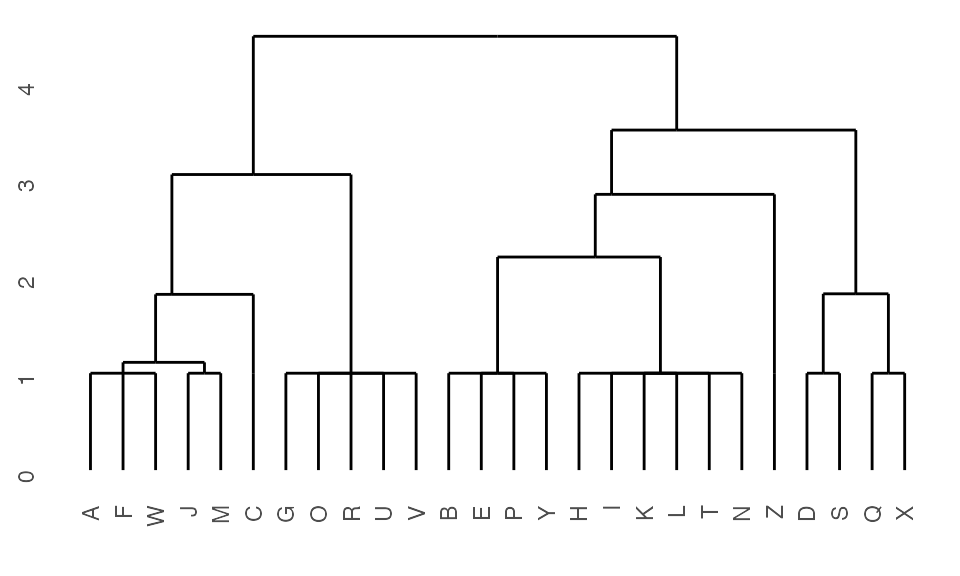
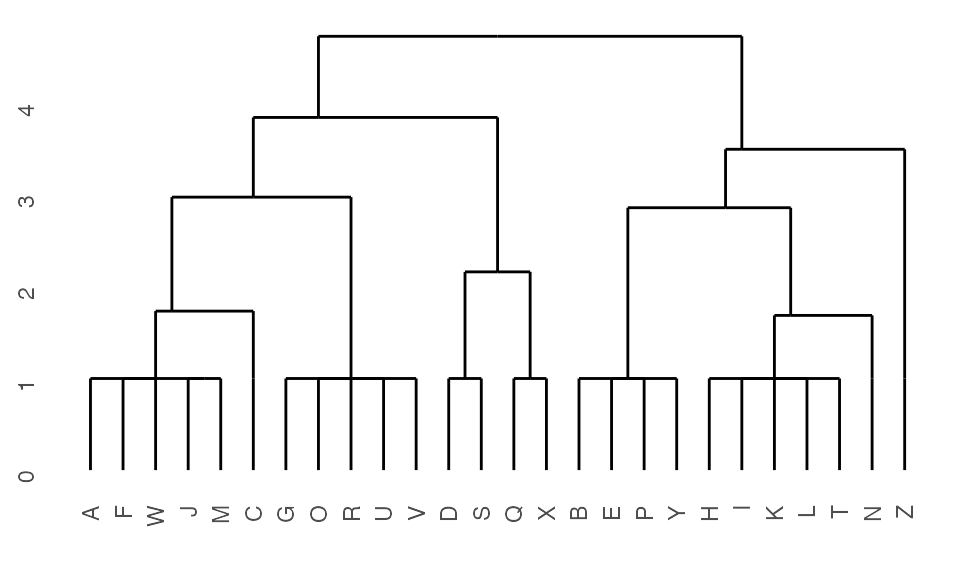
Troubleshooting gh-pages

diff --git a/docs/articles/RunningK2Taxonomer.html b/docs/articles/RunningK2Taxonomer.html
@@ -229,10 +229,10 @@
 <code class="sourceCode R"><span class="co">## Get observations defined in each partition</span>
 <span class="fu"><a href="../reference/K2results.html">K2results</a></span><span class="op">(</span><span class="va">K2res</span><span class="op">)</span><span class="op">$</span><span class="va">A</span><span class="op">$</span><span class="va">obs</span>
 <span class="co">#&gt; [[1]]</span>
-<span class="co">#&gt;  [1] "A" "C" "F" "G" "J" "M" "O" "R" "U" "V" "W"</span>
+<span class="co">#&gt;  [1] "A" "C" "D" "F" "G" "J" "M" "O" "Q" "R" "S" "U" "V" "W" "X"</span>
 <span class="co">#&gt; </span>
 <span class="co">#&gt; [[2]]</span>
-<span class="co">#&gt;  [1] "B" "D" "E" "H" "I" "K" "L" "N" "P" "Q" "S" "T" "X" "Y" "Z"</span></code></pre></div>
+<span class="co">#&gt;  [1] "B" "E" "H" "I" "K" "L" "N" "P" "T" "Y" "Z"</span></code></pre></div>
 </div>
 <div id="stability-metrics" class="section level3">
 <h3 class="hasAnchor">
@@ -241,15 +241,15 @@
 <div class="sourceCode" id="cb10"><pre class="downlit sourceCode r">
 <code class="sourceCode R"><span class="co">## Get bootstrap probability of this partition</span>
 <span class="fu"><a href="../reference/K2results.html">K2results</a></span><span class="op">(</span><span class="va">K2res</span><span class="op">)</span><span class="op">$</span><span class="va">A</span><span class="op">$</span><span class="va">bootP</span>
-<span class="co">#&gt; [1] 0.044</span>
+<span class="co">#&gt; [1] 0.038</span>
 
 <span class="co">## Node stability (Value between 0 and 1. 1 indicating high stability)</span>
 <span class="fu"><a href="../reference/K2results.html">K2results</a></span><span class="op">(</span><span class="va">K2res</span><span class="op">)</span><span class="op">$</span><span class="va">A</span><span class="op">$</span><span class="va">stability</span><span class="op">$</span><span class="va">node</span>
-<span class="co">#&gt; [1] 0.6951385</span>
+<span class="co">#&gt; [1] 0.6965192</span>
 
 <span class="co">## Stability of each subseqent subgroup.</span>
 <span class="fu"><a href="../reference/K2results.html">K2results</a></span><span class="op">(</span><span class="va">K2res</span><span class="op">)</span><span class="op">$</span><span class="va">A</span><span class="op">$</span><span class="va">stability</span><span class="op">$</span><span class="va">clusters</span>
-<span class="co">#&gt; [1] 0.6450297 0.6696616</span>
+<span class="co">#&gt; [1] 0.6453327 0.7098154</span>
 
 <span class="co">## Distance matrix indicating pairwise cosine similarity of each observation</span>
 <span class="va">partitionAstability</span> <span class="op">&lt;-</span> <span class="fu"><a href="https://rdrr.io/r/base/matrix.html">as.matrix</a></span><span class="op">(</span><span class="fu"><a href="../reference/K2results.html">K2results</a></span><span class="op">(</span><span class="va">K2res</span><span class="op">)</span><span class="op">$</span><span class="va">A</span><span class="op">$</span><span class="va">stability</span><span class="op">$</span><span class="va">samples</span><span class="op">)</span>
@@ -298,31 +298,38 @@
 
 <span class="co">## Get differential results for one partition</span>
 <span class="fu"><a href="https://rdrr.io/r/utils/head.html">head</a></span><span class="op">(</span><span class="fu"><a href="../reference/K2results.html">K2results</a></span><span class="op">(</span><span class="va">K2res</span><span class="op">)</span><span class="op">$</span><span class="va">A</span><span class="op">$</span><span class="va">dge</span><span class="op">)</span>
-<span class="co">#&gt;       gene     coef     mean        t         pval          fdr         B edge</span>
-<span class="co">#&gt; 1 31583_at 1519.998 2819.348 8.373340 1.046179e-08 2.353902e-05 -2.345377    2</span>
-<span class="co">#&gt; 2 31546_at 1242.405 1963.026 8.138876 1.768093e-08 2.652140e-05 -2.384707    2</span>
-<span class="co">#&gt; 3 31573_at 1229.790 2034.806 7.396055 9.781121e-08 1.100376e-04 -2.523671    2</span>
-<span class="co">#&gt; 4 31511_at 1300.542 3256.336 7.292037 1.250010e-07 1.125009e-04 -2.545017    2</span>
-<span class="co">#&gt; 5 31568_at 1422.450 2866.918 7.147891 1.760053e-07 1.320040e-04 -2.575418    2</span>
-<span class="co">#&gt; 6 31527_at 1527.006 3428.919 6.128346 2.126786e-06 9.133830e-04 -2.819940    2</span>
+<span class="co">#&gt;                        gene       coef       mean        t         pval</span>
+<span class="co">#&gt; 1                  31492_at  282.13664  307.98895 6.955755 2.796513e-07</span>
+<span class="co">#&gt; 2                  31461_at   27.57876   41.53356 5.633815 7.423551e-06</span>
+<span class="co">#&gt; 3 AFFX-HUMGAPDH/M33197_5_at 1709.65597 2262.19365 5.398349 1.354315e-05</span>
+<span class="co">#&gt; 4                  31321_at   36.15622  141.04954 5.358643 1.499377e-05</span>
+<span class="co">#&gt; 5                  31385_at 1202.02188 3490.16038 5.169070 2.440299e-05</span>
+<span class="co">#&gt; 6                31675_s_at   33.12332   30.28507 5.020459 3.579310e-05</span>
+<span class="co">#&gt;            fdr         B edge</span>
+<span class="co">#&gt; 1 0.0005552722 -2.520401    2</span>
+<span class="co">#&gt; 2 0.0046351547 -2.879747    1</span>
+<span class="co">#&gt; 3 0.0055403813 -2.954549    2</span>
+<span class="co">#&gt; 4 0.0055490358 -2.967498    1</span>
+<span class="co">#&gt; 5 0.0068633420 -3.030659    2</span>
+<span class="co">#&gt; 6 0.0080534469 -3.081715    2</span>
 
 <span class="co">## Concatenate all results and generate table</span>
 <span class="va">DGEtable</span> <span class="op">&lt;-</span> <span class="fu"><a href="../reference/getDGETable.html">getDGETable</a></span><span class="op">(</span><span class="va">K2res</span><span class="op">)</span>
 <span class="fu"><a href="https://rdrr.io/r/utils/head.html">head</a></span><span class="op">(</span><span class="va">DGEtable</span><span class="op">)</span>
-<span class="co">#&gt;       gene     coef      mean          t         pval          fdr         B</span>
-<span class="co">#&gt; 1 31737_at 1445.129  264.7562 119.688475 9.341821e-10 4.203820e-06 -4.445513</span>
-<span class="co">#&gt; 2 31583_at 1519.998 2819.3481   8.373340 1.046179e-08 2.353902e-05 -2.345377</span>
-<span class="co">#&gt; 3 31546_at 1242.405 1963.0257   8.138876 1.768093e-08 2.652140e-05 -2.384707</span>
-<span class="co">#&gt; 4 31573_at 1229.790 2034.8062   7.396055 9.781121e-08 1.100376e-04 -2.523671</span>
-<span class="co">#&gt; 5 31511_at 1300.542 3256.3362   7.292037 1.250010e-07 1.125009e-04 -2.545017</span>
-<span class="co">#&gt; 6 31568_at 1422.450 2866.9177   7.147891 1.760053e-07 1.320040e-04 -2.575418</span>
-<span class="co">#&gt;   edge node direction</span>
-<span class="co">#&gt; 1    2    I        up</span>
-<span class="co">#&gt; 2    2    A        up</span>
-<span class="co">#&gt; 3    2    A        up</span>
-<span class="co">#&gt; 4    2    A        up</span>
-<span class="co">#&gt; 5    2    A        up</span>
-<span class="co">#&gt; 6    2    A        up</span></code></pre></div>
+<span class="co">#&gt;         gene       coef       mean          t         pval          fdr</span>
+<span class="co">#&gt; 1   31737_at 1445.12854  264.75622 119.688475 9.341821e-10 4.203820e-06</span>
+<span class="co">#&gt; 2   31492_at  282.13664  307.98895   6.955755 2.796513e-07 5.552722e-04</span>
+<span class="co">#&gt; 3   31397_at   93.10100   39.35873  11.829624 3.701815e-07 5.552722e-04</span>
+<span class="co">#&gt; 4   31589_at  195.18564   97.21551  10.249751 1.385089e-06 1.558225e-03</span>
+<span class="co">#&gt; 5 31596_f_at  900.65933 1468.05440  10.679512 2.232714e-06 2.009443e-03</span>
+<span class="co">#&gt; 6   31461_at   27.57876   41.53356   5.633815 7.423551e-06 4.635155e-03</span>
+<span class="co">#&gt;           B edge node direction</span>
+<span class="co">#&gt; 1 -4.445513    2    H        up</span>
+<span class="co">#&gt; 2 -2.520401    2    A        up</span>
+<span class="co">#&gt; 3 -4.318449    2    C        up</span>
+<span class="co">#&gt; 4 -4.325216    2    C        up</span>
+<span class="co">#&gt; 5 -3.953010    1    F        up</span>
+<span class="co">#&gt; 6 -2.879747    1    A        up</span></code></pre></div>
 <p>See <em>?getDGETable</em> for a description of the columns in this data frame.</p>
 <div id="interpretting-differential-analysis-results" class="section level4">
 <h4 class="hasAnchor">
@@ -385,26 +392,26 @@
 <span class="va">K2enrRes</span> <span class="op">&lt;-</span> <span class="fu"><a href="../reference/getEnrichmentTable.html">getEnrichmentTable</a></span><span class="op">(</span><span class="va">K2res</span><span class="op">)</span>
 <span class="fu"><a href="https://rdrr.io/r/utils/head.html">head</a></span><span class="op">(</span><span class="va">K2enrRes</span><span class="op">)</span>
 <span class="co">#&gt;   category node edge direction   pval_hyper    fdr_hyper nhits ndrawn ncats</span>
-<span class="co">#&gt; 1      GS1    A    2        up 7.331993e-38 2.639518e-36    15     18    50</span>
-<span class="co">#&gt; 2      GS1    E    2        up 6.851490e-34 1.233268e-32    15     26    50</span>
-<span class="co">#&gt; 3      GS2    A    1        up 1.085697e-23 1.302836e-22    10     15    50</span>
-<span class="co">#&gt; 4      GS2    E    2        up 5.491032e-23 4.941929e-22    11     26    50</span>
-<span class="co">#&gt; 5      GS2    C    2        up 9.941221e-12 7.157679e-11     5      9    50</span>
-<span class="co">#&gt; 6      GS1    I    2        up 1.724589e-10 1.034753e-09     4      5    50</span>
-<span class="co">#&gt;    ntot   pval_limma    fdr_limma       coef         mean         t         B</span>
-<span class="co">#&gt; 1 20000 7.190604e-08 1.941463e-06 0.41311822  0.004093351 6.0018090  7.798662</span>
-<span class="co">#&gt; 2 20000 9.963414e-02 3.626028e-01 0.31673933  0.147986340 1.7052232 -4.444513</span>
-<span class="co">#&gt; 3 20000 2.403696e-01 4.992291e-01 0.08640587  0.011876124 1.1838414 -6.081334</span>
-<span class="co">#&gt; 4 20000 2.253486e-02 2.028138e-01 0.44947210 -0.072423381 2.4198139 -3.115332</span>
-<span class="co">#&gt; 5 20000 1.168601e-01 3.626028e-01 0.17903691 -0.024680206 1.6036510 -4.297261</span>
-<span class="co">#&gt; 6 20000 5.385187e-01 7.652635e-01 0.11688320  0.155759656 0.6331444 -5.342259</span>
-<span class="co">#&gt;                                                                                                                                                                 hits</span>
-<span class="co">#&gt; 1                           31583_at,31546_at,31573_at,31511_at,31568_at,31527_at,31545_at,31708_at,31330_at,31492_at,31509_at,31385_at,31538_at,31697_s_at,31722_at</span>
-<span class="co">#&gt; 2 31397_at,31589_at,AFFX-YEL021w/URA3_at,AFFX-BioC-3_st,31564_at,31425_g_at,AFFX-MurIL2_at,31502_at,31507_at,31726_at,31556_at,31574_i_at,31466_at,31571_at,31554_at</span>
-<span class="co">#&gt; 3                                                           31529_at,AFFX-TrpnX-5_at,31694_at,31471_at,31618_at,AFFX-MurIL4_at,31537_at,31345_at,31465_g_at,31335_at</span>
-<span class="co">#&gt; 4                                AFFX-PheX-M_at,31379_at,AFFX-HUMGAPDH/M33197_3_at,31417_at,31404_at,31586_f_at,31478_at,31364_i_at,AFFX-CreX-5_at,31406_at,31569_at</span>
-<span class="co">#&gt; 5                                                                                                     31321_at,31579_at,31441_at,AFFX-YEL024w/RIP1_at,AFFX-BioB-5_at</span>
-<span class="co">#&gt; 6                                                                                                            31737_at,AFFX-HUMTFRR/M11507_3_at,31670_s_at,31590_g_at</span></code></pre></div>
+<span class="co">#&gt; 1      GS2    A    1        up 2.021949e-48 8.492186e-47    23     53    50</span>
+<span class="co">#&gt; 2      GS3    A    1        up 2.722334e-35 5.716901e-34    18     53    50</span>
+<span class="co">#&gt; 3      GS1    A    2        up 9.667671e-32 1.353474e-30    14     24    50</span>
+<span class="co">#&gt; 4      GS1    C    2        up 9.880805e-28 1.037485e-26    13     28    50</span>
+<span class="co">#&gt; 5      GS2    C    2        up 4.213120e-25 3.539021e-24    12     28    50</span>
+<span class="co">#&gt; 6      GS1    A    1        up 3.535806e-21 2.475064e-20    12     53    50</span>
+<span class="co">#&gt;    ntot   pval_limma    fdr_limma      coef         mean        t         B</span>
+<span class="co">#&gt; 1 20000 5.190324e-03 0.0467129155 0.1961946  0.019494250 3.027112 -2.722372</span>
+<span class="co">#&gt; 2 20000 1.525711e-06 0.0000411942 0.2740537  0.012453243 6.039235  5.145331</span>
+<span class="co">#&gt; 3 20000 1.309560e-02 0.0707162620 0.2371838 -0.001126375 2.646378 -3.579505</span>
+<span class="co">#&gt; 4 20000 9.206661e-02 0.3107248098 0.3140874  0.135710451 1.774073 -4.196811</span>
+<span class="co">#&gt; 5 20000 5.820382e-02 0.2245004391 0.3025468 -0.093694921 2.015546 -3.882835</span>
+<span class="co">#&gt; 6 20000           NA           NA        NA           NA       NA        NA</span>
+<span class="co">#&gt;                                                                                                                                                                                                                                                                  hits</span>
+<span class="co">#&gt; 1 31428_at,31694_at,AFFX-TrpnX-M_at,31721_at,31413_at,31644_at,31579_at,31648_at,31626_i_at,31440_at,31408_at,31715_at,AFFX-DapX-M_at,31353_f_at,AFFX-ThrX-3_at,AFFX-BioB-5_at,31328_at,31607_at,AFFX-LysX-M_at,31441_at,31373_at,AFFX-ThrX-5_at,AFFX-YEL024w/RIP1_at</span>
+<span class="co">#&gt; 2                                                                                   31436_s_at,31437_r_at,31459_i_at,31335_at,31345_at,31580_at,31713_s_at,31424_at,31733_at,31465_g_at,31567_at,31683_at,31416_at,31653_at,31312_at,31560_at,AFFX-BioC-5_at,31614_at</span>
+<span class="co">#&gt; 3                                                                                             31492_at,AFFX-HUMGAPDH/M33197_5_at,31583_at,31385_at,31546_at,31675_s_at,31330_at,31527_at,31665_s_at,31463_s_at,31672_g_at,AFFX-HUMGAPDH/M33197_M_at,31431_at,31573_at</span>
+<span class="co">#&gt; 4                                                                                                                    31397_at,31589_at,AFFX-YEL021w/URA3_at,AFFX-BioC-3_st,31564_at,31425_g_at,AFFX-MurIL2_at,31502_at,31507_at,31726_at,31556_at,31574_i_at,31466_at</span>
+<span class="co">#&gt; 5                                                                                                                        31571_at,31554_at,AFFX-PheX-M_at,31379_at,AFFX-HUMGAPDH/M33197_3_at,31417_at,31404_at,31586_f_at,31478_at,31364_i_at,AFFX-CreX-5_at,31406_at</span>
+<span class="co">#&gt; 6                                                                                                                      31461_at,AFFX-YEL021w/URA3_at,31321_at,AFFX-MurIL2_at,31618_at,AFFX-TrpnX-5_at,31457_at,31471_at,31530_at,AFFX-MurIL4_at,31535_i_at,31635_g_at</span></code></pre></div>
 <p>See <em>?getEnrichmentTable</em> for a description of the columns in this data frame.</p>
 </div>
 <div id="differential-single-sample-enrichment-analysis-1" class="section level3">
@@ -471,49 +478,49 @@
 <span class="co">## Get differential results for one partition</span>
 <span class="fu"><a href="https://rdrr.io/r/utils/head.html">head</a></span><span class="op">(</span><span class="fu"><a href="../reference/K2results.html">K2results</a></span><span class="op">(</span><span class="va">K2res</span><span class="op">)</span><span class="op">$</span><span class="va">A</span><span class="op">$</span><span class="va">modTests</span><span class="op">)</span>
 <span class="co">#&gt; [[1]]</span>
-<span class="co">#&gt;   value       pval       fdr      stat df   obsMean   altMean     diffMean</span>
-<span class="co">#&gt; 1  type 0.01048593 0.5033248  9.504328 NA        NA        NA           NA</span>
-<span class="co">#&gt; 2   sex 0.24629493 0.9851797  2.916463 NA        NA        NA           NA</span>
-<span class="co">#&gt; 3 score 0.61236884 1.0000000 77.500000 NA 0.5372727 0.5366667 0.0006060606</span>
-<span class="co">#&gt;   nhits ncase nalt ndrawn                   hits                         test</span>
-<span class="co">#&gt; 1     8    11   15     11 A, C, F, J, R, U, V, W one-sided Fishers Exact Test</span>
-<span class="co">#&gt; 2    NA    NA   NA     NA                   &lt;NA&gt; two-sided Fishers Exact Test</span>
-<span class="co">#&gt; 3    NA    NA   NA     NA                   &lt;NA&gt;          1-sided Wilcox Test</span>
+<span class="co">#&gt;   value      pval       fdr      stat df   obsMean   altMean    diffMean nhits</span>
+<span class="co">#&gt; 1  type 0.0400811 0.6412976  6.234942 NA        NA        NA          NA     9</span>
+<span class="co">#&gt; 2   sex 0.1088690 0.7465300  4.498287 NA        NA        NA          NA    NA</span>
+<span class="co">#&gt; 3 score 0.7741782 1.0000000 68.500000 NA 0.5093333 0.5745455 -0.06521212    NA</span>
+<span class="co">#&gt;   ncase nalt ndrawn                      hits                         test</span>
+<span class="co">#&gt; 1    11   15     15 A, C, F, J, R, U, V, W, X one-sided Fishers Exact Test</span>
+<span class="co">#&gt; 2    NA   NA     NA                      &lt;NA&gt; two-sided Fishers Exact Test</span>
+<span class="co">#&gt; 3    NA   NA     NA                      &lt;NA&gt;          1-sided Wilcox Test</span>
 <span class="co">#&gt; </span>
 <span class="co">#&gt; [[2]]</span>
-<span class="co">#&gt;   value      pval       fdr       stat df   obsMean   altMean      diffMean</span>
-<span class="co">#&gt; 1   sex 0.2462949 0.9851797  0.3428811 NA        NA        NA            NA</span>
-<span class="co">#&gt; 2 score 0.4076518 1.0000000 87.5000000 NA 0.5366667 0.5372727 -0.0006060606</span>
-<span class="co">#&gt; 3  type 0.9992311 1.0000000  0.1052152 NA        NA        NA            NA</span>
-<span class="co">#&gt;   nhits ncase nalt ndrawn    hits                         test</span>
-<span class="co">#&gt; 1    NA    NA   NA     NA    &lt;NA&gt; two-sided Fishers Exact Test</span>
-<span class="co">#&gt; 2    NA    NA   NA     NA    &lt;NA&gt;          1-sided Wilcox Test</span>
-<span class="co">#&gt; 3     3    11   15     15 L, P, X one-sided Fishers Exact Test</span>
+<span class="co">#&gt;   value      pval       fdr       stat df   obsMean   altMean   diffMean nhits</span>
+<span class="co">#&gt; 1   sex 0.1088690 0.7465300  0.2223068 NA        NA        NA         NA    NA</span>
+<span class="co">#&gt; 2 score 0.2417236 0.9093966 96.5000000 NA 0.5745455 0.5093333 0.06521212    NA</span>
+<span class="co">#&gt; 3  type 0.9955479 1.0000000  0.1603864 NA        NA        NA         NA     2</span>
+<span class="co">#&gt;   ncase nalt ndrawn hits                         test</span>
+<span class="co">#&gt; 1    NA   NA     NA &lt;NA&gt; two-sided Fishers Exact Test</span>
+<span class="co">#&gt; 2    NA   NA     NA &lt;NA&gt;          1-sided Wilcox Test</span>
+<span class="co">#&gt; 3    11   15     11 L, P one-sided Fishers Exact Test</span>
 
 <span class="co">## Concatenate all results and generate table</span>
 <span class="va">modTestsTable</span> <span class="op">&lt;-</span> <span class="fu"><a href="../reference/getTestsModTable.html">getTestsModTable</a></span><span class="op">(</span><span class="va">K2res</span><span class="op">)</span>
 <span class="fu"><a href="https://rdrr.io/r/utils/head.html">head</a></span><span class="op">(</span><span class="va">modTestsTable</span><span class="op">)</span>
-<span class="co">#&gt;    value node edge       pval       fdr       stat df obsMean   altMean</span>
-<span class="co">#&gt; 1   type    A    1 0.01048593 0.5033248  9.5043281 NA      NA        NA</span>
-<span class="co">#&gt; 7   type    B    1 0.03210702 0.7705686 10.5140172 NA      NA        NA</span>
-<span class="co">#&gt; 37  type    G    1 0.06346154 0.9851797        Inf NA      NA        NA</span>
-<span class="co">#&gt; 19  type    D    1 0.08227425 0.9851797  7.3548149 NA      NA        NA</span>
-<span class="co">#&gt; 13   sex    C    1 0.10886896 0.9851797  0.2223068 NA      NA        NA</span>
-<span class="co">#&gt; 43 score    H    1 0.12771378 0.9851797 60.5000000 NA    0.67 0.5127273</span>
-<span class="co">#&gt;     diffMean nhits ncase nalt ndrawn                   hits</span>
-<span class="co">#&gt; 1         NA     8    11   15     11 A, C, F, J, R, U, V, W</span>
-<span class="co">#&gt; 7         NA     5    11   15      6          A, C, F, J, W</span>
-<span class="co">#&gt; 37        NA     3    11   15      3                A, F, W</span>
-<span class="co">#&gt; 19        NA     4    11   15      5             A, F, J, W</span>
-<span class="co">#&gt; 13        NA    NA    NA   NA     NA                   &lt;NA&gt;</span>
-<span class="co">#&gt; 43 0.1572727    NA    NA   NA     NA                   &lt;NA&gt;</span>
+<span class="co">#&gt;    value node edge       pval       fdr      stat df obsMean altMean diffMean</span>
+<span class="co">#&gt; 7   type    B    1 0.01048593 0.5033248  9.504328 NA      NA      NA       NA</span>
+<span class="co">#&gt; 19  type    D    1 0.03210702 0.6412976 10.514017 NA      NA      NA       NA</span>
+<span class="co">#&gt; 1   type    A    1 0.04008110 0.6412976  6.234942 NA      NA      NA       NA</span>
+<span class="co">#&gt; 49  type    I    1 0.06346154 0.7465300       Inf NA      NA      NA       NA</span>
+<span class="co">#&gt; 37  type    G    1 0.08227425 0.7465300  7.354815 NA      NA      NA       NA</span>
+<span class="co">#&gt; 2    sex    A    1 0.10886896 0.7465300  4.498287 NA      NA      NA       NA</span>
+<span class="co">#&gt;    nhits ncase nalt ndrawn                      hits</span>
+<span class="co">#&gt; 7      8    11   15     11    A, C, F, J, R, U, V, W</span>
+<span class="co">#&gt; 19     5    11   15      6             A, C, F, J, W</span>
+<span class="co">#&gt; 1      9    11   15     15 A, C, F, J, R, U, V, W, X</span>
+<span class="co">#&gt; 49     3    11   15      3                   A, F, W</span>
+<span class="co">#&gt; 37     4    11   15      5                A, F, J, W</span>
+<span class="co">#&gt; 2     NA    NA   NA     NA                      &lt;NA&gt;</span>
 <span class="co">#&gt;                            test</span>
-<span class="co">#&gt; 1  one-sided Fishers Exact Test</span>
 <span class="co">#&gt; 7  one-sided Fishers Exact Test</span>
-<span class="co">#&gt; 37 one-sided Fishers Exact Test</span>
 <span class="co">#&gt; 19 one-sided Fishers Exact Test</span>
-<span class="co">#&gt; 13 two-sided Fishers Exact Test</span>
-<span class="co">#&gt; 43          1-sided Wilcox Test</span></code></pre></div>
+<span class="co">#&gt; 1  one-sided Fishers Exact Test</span>
+<span class="co">#&gt; 49 one-sided Fishers Exact Test</span>
+<span class="co">#&gt; 37 one-sided Fishers Exact Test</span>
+<span class="co">#&gt; 2  two-sided Fishers Exact Test</span></code></pre></div>
 <p>See <em>?getTestsModTable</em> for a description of the columns in this data frame.</p>
 </div>
 </div>
@@ -647,19 +654,19 @@
 <span class="va">K2enrRes</span> <span class="op">&lt;-</span> <span class="fu"><a href="../reference/getEnrichmentTable.html">getEnrichmentTable</a></span><span class="op">(</span><span class="va">K2res</span><span class="op">)</span>
 <span class="fu"><a href="https://rdrr.io/r/utils/head.html">head</a></span><span class="op">(</span><span class="va">K2enrRes</span><span class="op">)</span>
 <span class="co">#&gt;   category node edge direction pval_hyper fdr_hyper nhits ndrawn ncats  ntot</span>
-<span class="co">#&gt; 1      GS3    A    2        up     0.0025    0.0075     1      1    50 20000</span>
+<span class="co">#&gt; 1      GS2    A    2        up     0.0025    0.0075     1      1    50 20000</span>
 <span class="co">#&gt; 2      GS1    A    2        up     1.0000    1.0000     0      1    50 20000</span>
-<span class="co">#&gt; 3      GS2    A    2        up     1.0000    1.0000     0      1    50 20000</span>
+<span class="co">#&gt; 3      GS3    A    2        up     1.0000    1.0000     0      1    50 20000</span>
 <span class="co">#&gt; 4      GS1    A    1        up         NA        NA    NA     NA    NA    NA</span>
 <span class="co">#&gt; 5      GS1    B    1        up         NA        NA    NA     NA    NA    NA</span>
-<span class="co">#&gt; 6      GS2    B    2      down         NA        NA    NA     NA    NA    NA</span>
-<span class="co">#&gt;   pval_limma fdr_limma        coef         mean          t         B     hits</span>
-<span class="co">#&gt; 1 0.53844430 0.5384443  0.04510888  0.010251070  0.6221345 -5.530031 31328_at</span>
-<span class="co">#&gt; 2         NA        NA          NA           NA         NA        NA         </span>
-<span class="co">#&gt; 3 0.02610042 0.1566025  0.20575996  0.011876124  2.3376451 -3.412784         </span>
-<span class="co">#&gt; 4 0.09228072 0.2511959  0.17436570  0.004093351  1.7377042 -4.169130     &lt;NA&gt;</span>
-<span class="co">#&gt; 5 0.17190372 0.2511959  0.17180933  0.040837424  1.4071201 -4.456817     &lt;NA&gt;</span>
-<span class="co">#&gt; 6 0.18038868 0.2511959 -0.12804224 -0.045109445 -1.3787329 -4.477902     &lt;NA&gt;</span></code></pre></div>
+<span class="co">#&gt; 6      GS2    B    1        up         NA        NA    NA     NA    NA    NA</span>
+<span class="co">#&gt;   pval_limma fdr_limma       coef         mean         t         B     hits</span>
+<span class="co">#&gt; 1 0.03680389 0.2208233 0.19045013  0.019494250 2.1638919 -3.647953 31328_at</span>
+<span class="co">#&gt; 2         NA        NA         NA           NA        NA        NA         </span>
+<span class="co">#&gt; 3 0.19903582 0.3458610 0.11291459  0.012453243 1.3070175 -4.848357         </span>
+<span class="co">#&gt; 4 0.23057398 0.3458610 0.11946962 -0.001126375 1.2183589 -4.610899     &lt;NA&gt;</span>
+<span class="co">#&gt; 5 0.16150893 0.3458610 0.15670456  0.023488858 1.4219414 -4.442727     &lt;NA&gt;</span>
+<span class="co">#&gt; 6 0.50844526 0.5084453 0.06986103 -0.030289882 0.6662432 -4.805862     &lt;NA&gt;</span></code></pre></div>
 <p>Here, we see that, although not statistically significant (<strong>“fdr_limma”</strong> = 0.25), the enrichment score of <em>“GS2”</em> deviated further from the control group in subgroup, <strong>“node”</strong> = “B”; <strong>“edge”</strong> = “2”, compared to subgroup, <strong>“node”</strong> = “B”; <strong>“edge”</strong> = “1”.</p>
 <p>Missing values for hyperenrichment analysis indicated that no genes were assigned to these specific subgroups and direction combinations. Missing values for differential enrichment score analysis indicate that, while genes were assigned to these specific subgroups and direction combinations, the enrichment score of the gene set deviated further from control in the alternative subgroup for that partition.</p>
 </div>
@@ -701,7 +708,7 @@
 <div id="runtime-for-this-example" class="section level2">
 <h2 class="hasAnchor">
 <a href="#runtime-for-this-example" class="anchor"></a>Runtime for this example</h2>
-<pre><code>#&gt; Time difference of 23.59898 secs</code></pre>
+<pre><code>#&gt; Time difference of 20.77128 secs</code></pre>
 </div>
 </div>
 <div id="references" class="section level1 unnumbered">

diff --git a/docs/articles/K2Taxonomer_singlecell.html b/docs/articles/K2Taxonomer_singlecell.html
@@ -312,38 +312,38 @@
 <span class="co">## Get differential results for one split</span>
 <span class="fu"><a href="https://rdrr.io/r/utils/head.html">head</a></span><span class="op">(</span><span class="fu"><a href="../reference/K2results.html">K2results</a></span><span class="op">(</span><span class="va">K2res</span><span class="op">)</span><span class="op">$</span><span class="va">A</span><span class="op">$</span><span class="va">dsse</span><span class="op">)</span>
 <span class="co">#&gt;   category        coef        mean         t         pval          fdr</span>
-<span class="co">#&gt; 1      GS3 0.094055818 -0.02630978 5.9081012 7.282563e-09 6.008115e-08</span>
-<span class="co">#&gt; 2      GS2 0.036609829 -0.01437239 2.0141414 4.464767e-02 9.208582e-02</span>
-<span class="co">#&gt; 3      GS1 0.004505419 -0.02296779 0.2822545 7.778909e-01 8.280774e-01</span>
+<span class="co">#&gt; 1      GS3 0.124656266 -0.02988168 7.2616665 1.926477e-12 3.178687e-11</span>
+<span class="co">#&gt; 2      GS2 0.049090375 -0.01559724 2.6263013 8.953867e-03 1.846735e-02</span>
+<span class="co">#&gt; 3      GS1 0.005320382 -0.02537272 0.3299682 7.415919e-01 7.894365e-01</span>
 <span class="co">#&gt;           B edge</span>
-<span class="co">#&gt; 1  9.797420    1</span>
-<span class="co">#&gt; 2 -4.767568    2</span>
-<span class="co">#&gt; 3 -6.724949    2</span>
+<span class="co">#&gt; 1 17.669875    1</span>
+<span class="co">#&gt; 2 -3.572061    2</span>
+<span class="co">#&gt; 3 -6.916551    2</span>
 
 <span class="co">## Extract table of all hyper and sample-level enrichment tests</span>
 <span class="va">K2enrRes</span> <span class="op">&lt;-</span> <span class="fu"><a href="../reference/getEnrichmentTable.html">getEnrichmentTable</a></span><span class="op">(</span><span class="va">K2res</span><span class="op">)</span>
 <span class="fu"><a href="https://rdrr.io/r/utils/head.html">head</a></span><span class="op">(</span><span class="va">K2enrRes</span><span class="op">)</span>
 <span class="co">#&gt;   category node edge direction   pval_hyper    fdr_hyper nhits ndrawn ncats</span>
-<span class="co">#&gt; 1      GS2    F    1        up 4.989686e-16 1.219475e-14    14    238    50</span>
-<span class="co">#&gt; 2      GS1    E    1        up 4.993019e-16 1.219475e-14    23   1142    50</span>
-<span class="co">#&gt; 3      GS2    C    1        up 5.543069e-16 1.219475e-14    17    462    50</span>
-<span class="co">#&gt; 4      GS2    J    2        up 2.712990e-15 4.476433e-14    13    207    50</span>
-<span class="co">#&gt; 5      GS2    E    1        up 6.936672e-15 9.156407e-14    22   1142    50</span>
-<span class="co">#&gt; 6      GS3    A    1        up 8.752576e-15 9.266266e-14    19    762    50</span>
-<span class="co">#&gt;    ntot   pval_limma    fdr_limma       coef         mean         t         B</span>
-<span class="co">#&gt; 1 20000 3.427385e-02 7.540246e-02 0.07661344 -0.073563087  2.155600 -3.757621</span>
-<span class="co">#&gt; 2 20000 1.091726e-14 1.200899e-13 0.14183945 -0.039726006  7.939786 22.485698</span>
-<span class="co">#&gt; 3 20000 1.567275e-05 8.620013e-05 0.09102656 -0.005382406  4.376928  2.672034</span>
-<span class="co">#&gt; 4 20000 4.716834e-05 2.223650e-04 0.10983631  0.106501651  4.136353  1.771177</span>
-<span class="co">#&gt; 5 20000 7.349951e-23 2.425484e-21 0.18838007  0.017463477 10.283674 41.022878</span>
-<span class="co">#&gt; 6 20000 7.282563e-09 6.008115e-08 0.09405582 -0.026309780  5.908101  9.797420</span>
-<span class="co">#&gt;                                                                                                                                                 hits</span>
-<span class="co">#&gt; 1                                                                Nos1ap,Crym,Gucy1a3,Enc1,Dkk3,Fstl5,Ldb2,Luzp2,Dynll1,Meis2,Bcl11b,Ntrk3,Cck,Igfbp4</span>
-<span class="co">#&gt; 2 Ptn,Neurod6,Fam84a,Cux2,Srgap3,Slc30a3,Rorb,Plcxd2,Atp1b2,Btbd3,Olfm1,Utrn,Camk2d,Cdh10,Cbln4,Fam19a1,Per3,Cacna2d3,Ucma,Serpine2,Vat1l,Hpca,Grik1</span>
-<span class="co">#&gt; 3                                    Unc5d,Zdhhc22,Car10,Kcnv1,Pamr1,Deptor,Tmsb10,Dkk3,Spock1,Alcam,Tspan7,Ccdc80,Gpm6a,S100a10,Fxyd7,Abracl,Scube1</span>
-<span class="co">#&gt; 4                                                                   Ptchd1,Deptor,Enc1,Snx10,Tmsb10,Dkk3,Tmsb4x,Alcam,Rasgrf1,Gpm6a,Etv1,Cck,Galnt14</span>
-<span class="co">#&gt; 5  Unc5d,Nrxn1,Car10,Gucy1a3,Kcnv1,Pamr1,Deptor,Spock1,Tmem200a,Alcam,Ccdc80,Krt12,Rasgrf1,S100a10,Cnih3,Etv1,Chrm2,Bhlhe40,Scube1,Cck,Galnt14,Igfn1</span>
-<span class="co">#&gt; 6                               Camk2n1,Lin7a,Sphkap,Chgb,Pou3f2,Rims3,Cpne9,Fam19a2,Npcd,Dcdc2a,Mapk4,Dkkl1,Whrn,Ppm1h,Pcdh20,Nrep,Coch,Scnn1a,Rgs4</span></code></pre></div>
+<span class="co">#&gt; 1      GS2    C    1        up 2.223463e-17 1.467486e-15    18    461    50</span>
+<span class="co">#&gt; 2      GS3    G    1        up 7.899686e-17 2.606896e-15    16    335    50</span>
+<span class="co">#&gt; 3      GS1    C    2        up 1.068936e-15 2.351659e-14    26   1657    50</span>
+<span class="co">#&gt; 4      GS1    E    1        up 6.570906e-15 8.673595e-14    22   1139    50</span>
+<span class="co">#&gt; 5      GS2    E    1        up 6.570906e-15 8.673595e-14    22   1139    50</span>
+<span class="co">#&gt; 6      GS3    A    1        up 8.547355e-15 9.402091e-14    19    761    50</span>
+<span class="co">#&gt;    ntot   pval_limma    fdr_limma       coef         mean        t         B</span>
+<span class="co">#&gt; 1 20000 9.181423e-11 7.545724e-10 0.13841783 -0.003542505 6.687175 13.968782</span>
+<span class="co">#&gt; 2 20000 4.592668e-08 2.525967e-07 0.14681796 -0.003491838 5.604604  8.766456</span>
+<span class="co">#&gt; 3 20000 2.616468e-07 1.233478e-06 0.09694812 -0.024066237 5.253619  6.285439</span>
+<span class="co">#&gt; 4 20000 1.143291e-10 7.545724e-10 0.12429612 -0.048398313 6.569617 14.285495</span>
+<span class="co">#&gt; 5 20000 1.088998e-17 3.593694e-16 0.16749365  0.031197656 8.852804 31.789295</span>
+<span class="co">#&gt; 6 20000 1.926477e-12 3.178687e-11 0.12465627 -0.029881683 7.261667 17.669875</span>
+<span class="co">#&gt;                                                                                                                                                               hits</span>
+<span class="co">#&gt; 1                                          Unc5d,Zdhhc22,Car10,Kcnv1,Pamr1,Deptor,Tmsb10,Dkk3,Spock1,Alcam,Tspan7,Ccdc80,Gpm6a,S100a10,Fxyd7,Abracl,Scube1,Gadd45a</span>
+<span class="co">#&gt; 2                                                           Nav1,Camk2n1,Rims3,Lypd1,Galntl6,Ccl27b,Gm13306,Coro6,Fam19a2,Lamp5,Hs3st4,Dkkl1,Whrn,Nrep,Coch,Scnn1a</span>
+<span class="co">#&gt; 3 Bcl6,Fam84a,Reln,Fam84b,Robo1,Qrfpr,Srgap3,Parm1,Prkcg,Gng7,Nfib,Atp2b1,Lmo3,Btbd3,Klk8,Lrrtm4,Id2,Utrn,Pou3f1,Fam19a1,Nrp1,Cacna2d3,B3galt2,Serpine2,Vat1l,Npr3</span>
+<span class="co">#&gt; 4                    Ptn,Neurod6,Fam84a,Cux2,Srgap3,Slc30a3,Rorb,Plcxd2,Atp1b2,Btbd3,Olfm1,Utrn,Camk2d,Cdh10,Cbln4,Fam19a1,Per3,Cacna2d3,Serpine2,Vat1l,Hpca,Grik1</span>
+<span class="co">#&gt; 5                Unc5d,Nrxn1,Car10,Gucy1a3,Kcnv1,Pamr1,Deptor,Spock1,Tmem200a,Alcam,Ccdc80,Krt12,Rasgrf1,S100a10,Cnih3,Etv1,Chrm2,Bhlhe40,Scube1,Cck,Galnt14,Igfn1</span>
+<span class="co">#&gt; 6                                             Camk2n1,Lin7a,Sphkap,Chgb,Pou3f2,Rims3,Cpne9,Fam19a2,Npcd,Dcdc2a,Mapk4,Dkkl1,Whrn,Ppm1h,Pcdh20,Nrep,Coch,Scnn1a,Rgs4</span></code></pre></div>
 </div>
 </div>
 <div id="generate-interactive-dashboard-to-explore-results" class="section level2">
@@ -359,7 +359,7 @@
 <div id="runtime-for-this-example" class="section level1">
 <h1 class="hasAnchor">
 <a href="#runtime-for-this-example" class="anchor"></a>Runtime for this example</h1>
-<pre><code>#&gt; Time difference of 1.983346 mins</code></pre>
+<pre><code>#&gt; Time difference of 1.622972 mins</code></pre>
 </div>
 <div id="references" class="section level1 unnumbered">
 <h1 class="hasAnchor">

diff --git a/docs/reference/K2meta.html b/docs/reference/K2meta.html
@@ -214,7 +214,7 @@
 #&gt;     mods &lt;- paste(modVec, collapse = "")
 #&gt;     return(mods)
 #&gt; }
-#&gt; &lt;bytecode: 0x7fea4c6a3ca8&gt;
+#&gt; &lt;bytecode: 0x7fc5915522a0&gt;
 #&gt; &lt;environment: namespace:K2Taxonomer&gt;
 #&gt; 
 #&gt; $clustCors
